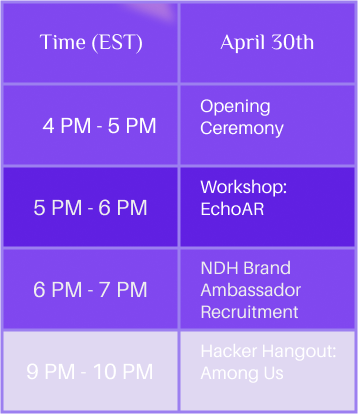
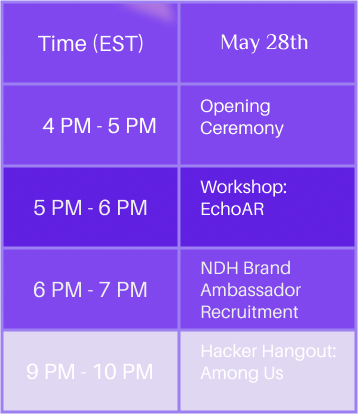
dates update

Changed region(s): [[0.0922, 0.058, 0.3994, 0.1449], [0.6145, 0.058, 0.8911, 0.1449]]

diff --git a/gcc.html b/gcc.html
@@ -61,7 +61,7 @@
             <div class="row justify-content-around">
                 <div class="col-lg-4">
                     <div class="main-landing-gcc-content">
-                        <p class="font-italic font-weight-bold mb-3">April 30th 2021 to May 2nd, 2021</p>
+                        <p class="font-italic font-weight-bold mb-3">May 28th 2021 to May 30th, 2021</p>
                         <img width="100%" class="mb-5" src="assets/logos/gcc-logo.svg">
                         <p class="info-text d-inline-block mb-4">A Hackathon For All Canadian Female High School Coders.
                             Register to
